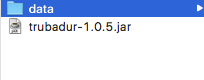
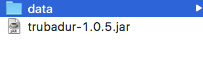
Bolded a part of a sentence and removed some gray borders in some images.

Changed region(s): [[0.0, 0.0, 0.6502, 1.0]]

diff --git a/README.md b/README.md
@@ -23,9 +23,7 @@ Trubadur is an Open Source and FREE software for editing your lyrics and guitar 
 6. You can now run the JAR-file like a normal application by double-clicking
 
 
-**Note!** Once you have run the application for the first time there is a directory created next to the JAR-file called `data`. This is where all your application data is stored. Make sure to regurarly backup this directory so that you always can restore the application data if you ever loose it.
-
-![Data folder](https://github.com/trubadur-app/trubadur/blob/master/images/file3.png)
+**Note!** Once you have run the application for the first time there is a directory created next to the JAR-file called `data`. This is where all your application data is stored. Make sure to **regurarly backup** this directory so that you always can restore the application data if you ever loose it.
 
 ![Data folder content](https://github.com/trubadur-app/trubadur/blob/master/images/file4.png)
 
